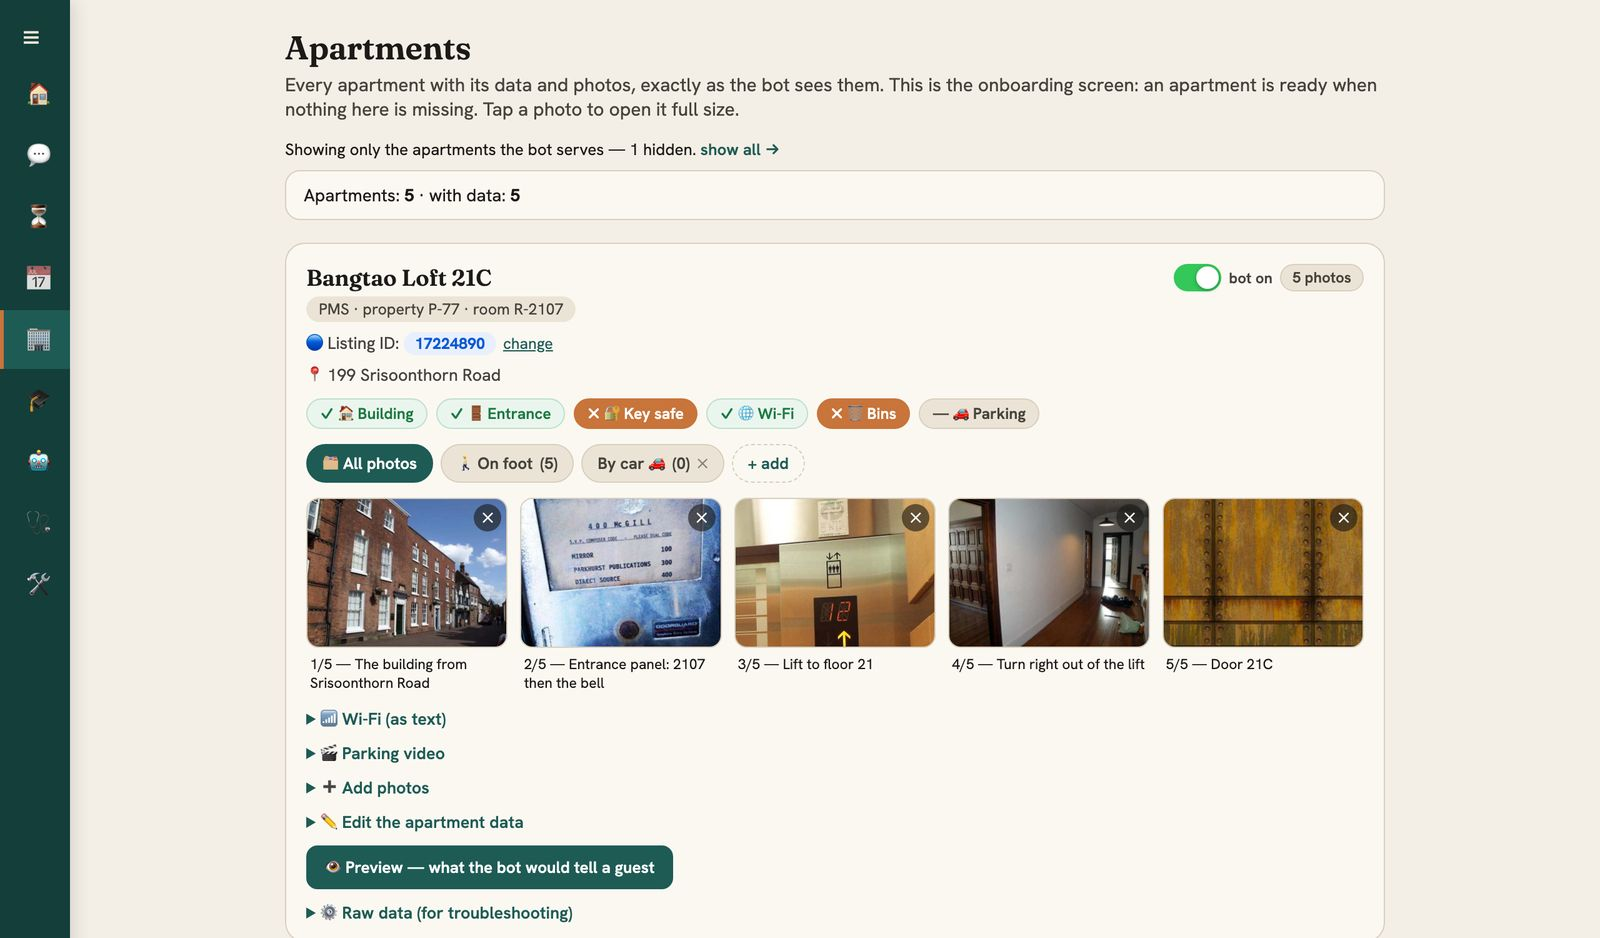
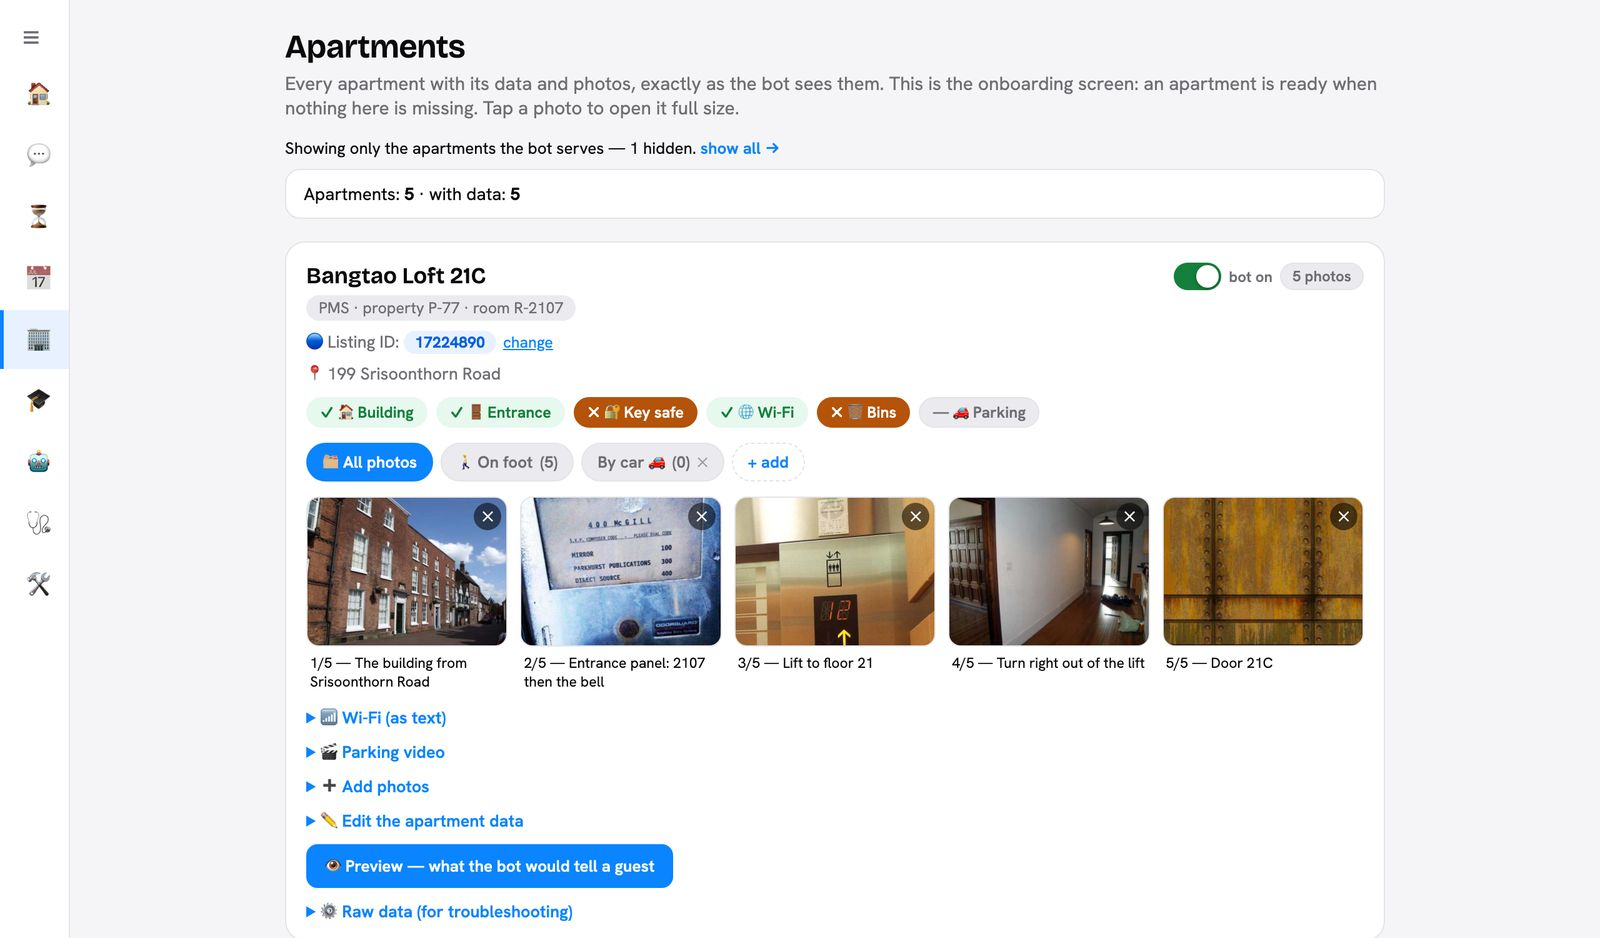
Reshoot the panel screenshots in the product's own palette
The panel pages arrived from the client build wearing the client's brand — warm
paper and dark green — while the dashboard and the landing are white. Two skins
in one product, and the seam showed on the second click. The screenshots here
now match the panel after the retheme.

diff --git a/index.html b/index.html
@@ -649,7 +649,7 @@
           <h3 data-i18n="pn.4h">It tells you when it is struggling.</h3>
           <p data-i18n="pn.4p">A summary arrives every morning even on a quiet day, because a watchdog that only speaks up when things break is indistinguishable from a dead one. This page says, in plain words, whether the assistant is answering — and names the one guest still short of a photo.</p>
         </div>
-        <div class="pn-shot"><img src="/assets/panel-health.jpg" width="1600" height="625" loading="lazy" alt="The Health screen: five plain-language signals, four green and one red about a guest missing a photo."></div>
+        <div class="pn-shot"><img src="/assets/panel-health.jpg" width="1600" height="825" loading="lazy" alt="The Health screen: five plain-language signals, four green and one red about a guest missing a photo."></div>
       </div>
 
       <p class="pn-note reveal" data-i18n="pn.note">The screenshots are a demo operation with sample apartments. Ask us and we'll walk you through the live panel.</p>
